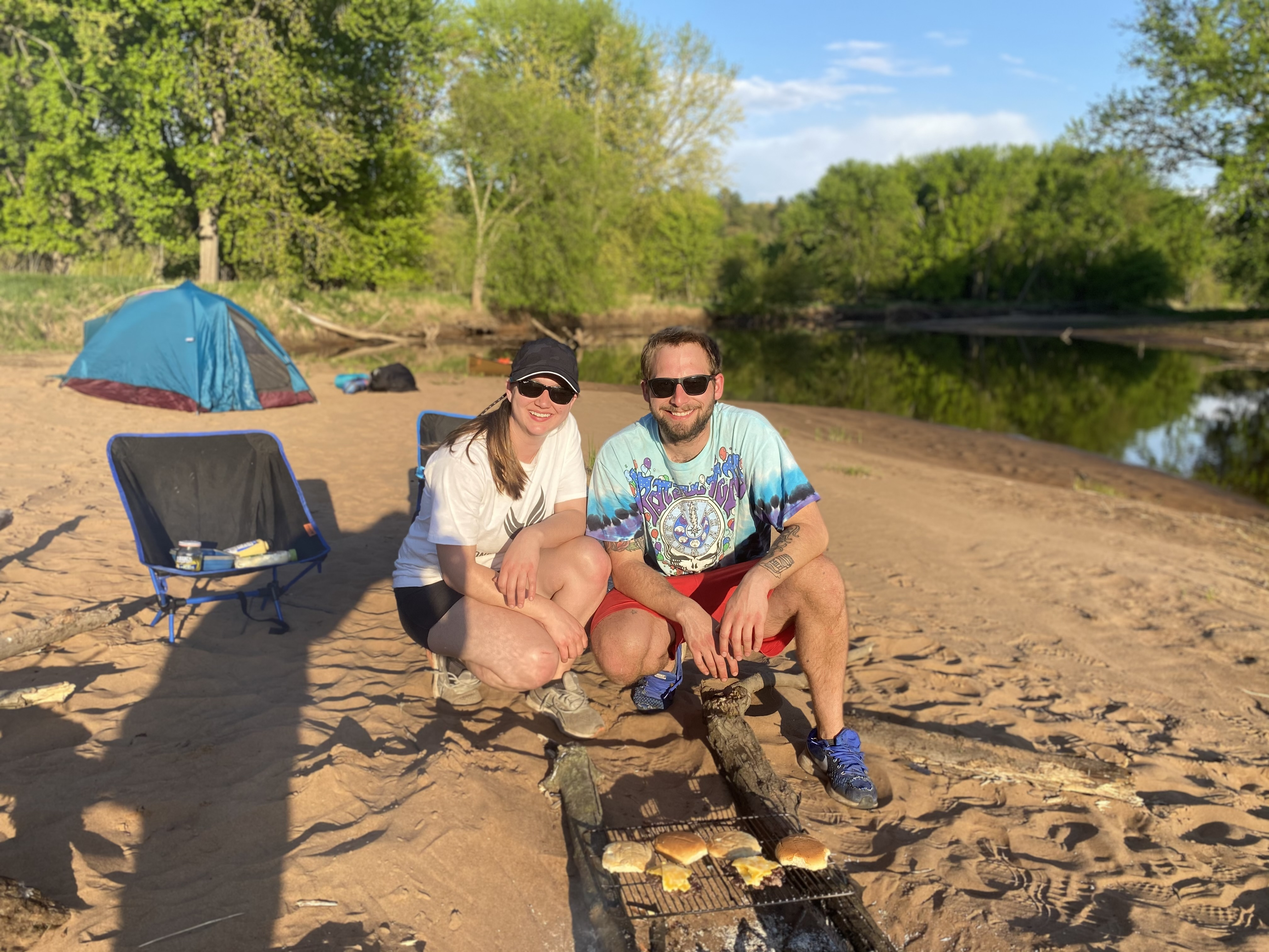
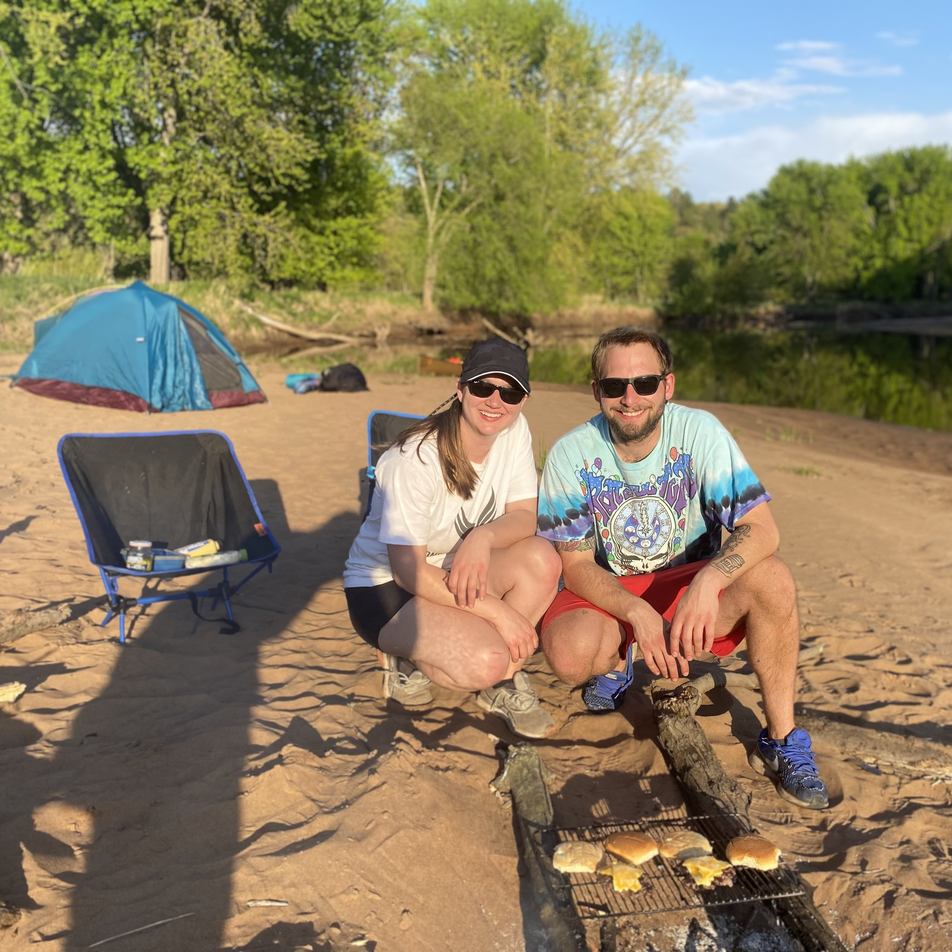
created GalleryItem component, got it working to render photos to DOM

diff --git a/server/modules/gallery.data.js b/server/modules/gallery.data.js
@@ -1,10 +1,10 @@
 const galleryItems = [
-    { id: 1, path: '../public/images/AKcamping.jpg', description: 'Description goes here.', loves: 0 },
-    { id: 2, path: '../public/images/boat.jpeg', description: 'Description goes here.', loves: 0 },
-    { id: 3, path: '../public/images/buffalo.jpeg', description: 'Description goes here.', loves: 0 },
-    { id: 4, path: '../public/images/Mogley1.jpg', description: 'Description goes here.', loves: 0 },
-    { id: 5, path: '../public/images/BW.jpeg', description: 'Description goes here.', loves: 0 },
-    { id: 6, path: '../public/images/Tibbs1.jpg', description: 'Description goes here.', loves: 0 },
+    { id: 1, path: 'images/AKcamping.jpg', description: 'Description goes here.', loves: 0 },
+    { id: 2, path: 'images/boat.jpeg', description: 'Description goes here.', loves: 0 },
+    { id: 3, path: 'images/buffalo2.JPEG', description: 'Description goes here.', loves: 0 },
+    { id: 4, path: 'images/Mogley.JPG', description: 'Description goes here.', loves: 0 },
+    { id: 5, path: 'images/BW.jpeg', description: 'Description goes here.', loves: 0 },
+    { id: 6, path: 'images/Tibbs2.JPG', description: 'Description goes here.', loves: 0 },
 ];
 
 module.exports = galleryItems;

diff --git a/src/components/GalleryList/GalleryList.jsx b/src/components/GalleryList/GalleryList.jsx
@@ -1,9 +1,11 @@
+import GalleryItem from '../GalleryItem/GalleryItem.jsx'
+
 function GalleryList({galleryList}) {
     return (
         <div>
-            {galleryList.map(gallery => (
-                <img key={gallery.id} src={gallery.path}/>
-            ))}
+            {galleryList.map((gallery) => {
+                return <GalleryItem gallery={gallery} />
+            })}
         </div>
     );
 };

diff --git a/src/components/GalleryItem/GalleryItem.jsx b/src/components/GalleryItem/GalleryItem.jsx
@@ -1,0 +1,7 @@
+
+function GalleryItem({gallery}) {
+    return <img className="photo" key={gallery.id} src={gallery.path} width="250"
+                height="250" />
+};
+
+export default GalleryItem;

diff --git a/README.md b/README.md
@@ -15,9 +15,9 @@ TO DO:
 [x] Add images to public/images folder
 [x] Modify galleryItems array (in `server/modules/data.js`) to include an `id`, `title`, `description` and `path for`
 [x] Use axios to GET data from '/gallery' and store in App.jsx
-[ ] Create component for GalleryList, pass in gallery data stored in 'App' via props
-    - [ ] Iterate over list of gallery data (.map)
-    - [ ] Make GalleryItems (array?) 
+[x] Create component for GalleryList, pass in gallery data stored in 'App' via props
+    - [x] Iterate over list of gallery data (.map)
+    - [ ] Make GalleryItems 
 [ ] Create component for GalleryItem, pass it the individual gallery item via props
     - [ ] Update 'GalleryList' to use this component to display an image
     - [ ] Swap the image with the description on click (use conditional rendering)
